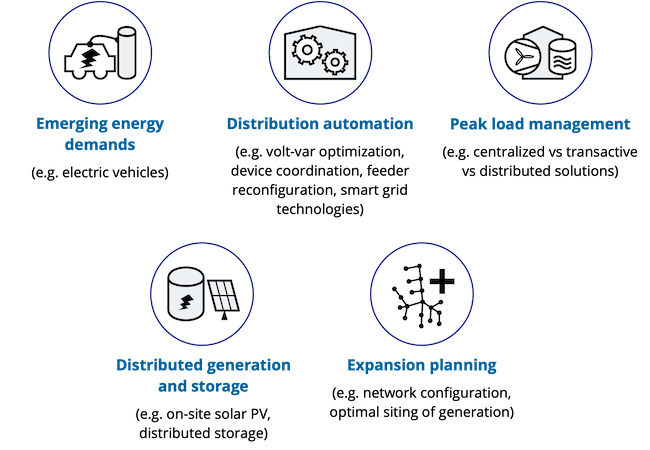
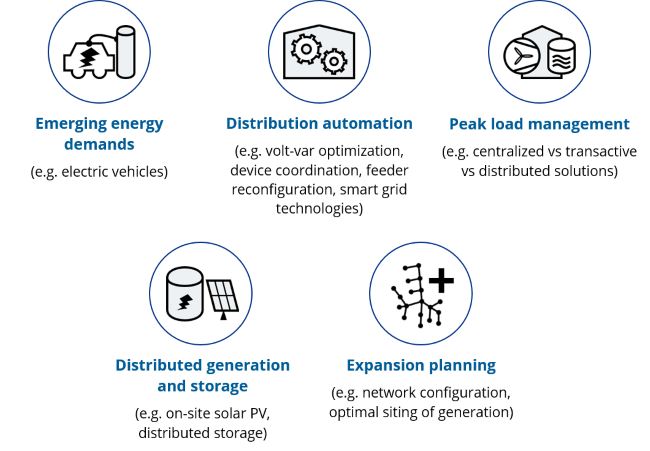
docs: Preserve colors when using invert in dark mode

diff --git a/docs/static/css/custom.css b/docs/static/css/custom.css
@@ -4,12 +4,14 @@
 .sidebar-logo {
     max-width: 50%;
 }
-body[data-theme="dark"] .invert {
-    filter: invert(1);
+body[data-theme="dark"] .invert,
+body[data-theme="dark"] .sidebar-logo {
+    filter: invert(1) hue-rotate(180deg);
 }
 @media (prefers-color-scheme: dark) {
-    body:not([data-theme="light"]) .invert {
-        filter: invert(1);
+    body:not([data-theme="light"]) .invert,
+    body:not([data-theme="light"]) .sidebar-logo {
+        filter: invert(1) hue-rotate(180deg);
     }
 }
 body[data-theme="dark"] .invert-gray {

diff --git a/docs/index.md b/docs/index.md
@@ -1,4 +1,4 @@
-<img src="assets/mesmo_logo_transparent.png" alt="" class="invert-gray align-center"/>
+<img src="assets/mesmo_logo_transparent.png" alt="" class="invert align-center"/>
 
 [![](https://zenodo.org/badge/201130660.svg)](https://zenodo.org/badge/latestdoi/201130660)
 [![](https://img.shields.io/github/release-date/mesmo-dev/mesmo?label=last%20release)](https://github.com/mesmo-dev/mesmo/releases)
@@ -36,7 +36,7 @@ MESMO implements 1) non-linear models for simulation-based analysis and 2) conve
 
 District-scale energy systems are evolving from unidirectional, top-down structures into bidirectional, distributed and multi-commodity systems. Furthermore, the increased coupling of electric, thermal and other energy systems in terms of multi-energy systems enables additional flexibility across conventional system boundaries. MESMO is intended to support the various studies that are motivated by these recent developments for district-scale energy systems, such as the examples highlighted below:
 
-<img src="assets/use_cases.png" alt="" class="invert-gray align-center"/>
+<img src="assets/use_cases.png" alt="" class="invert align-center"/>
 
 1. **Emerging energy demands**: What is the impact of EV charging deployment on distribution system operation?
 2. **Distribution automation**: How can the distribution system operator address imminent operational issues?
